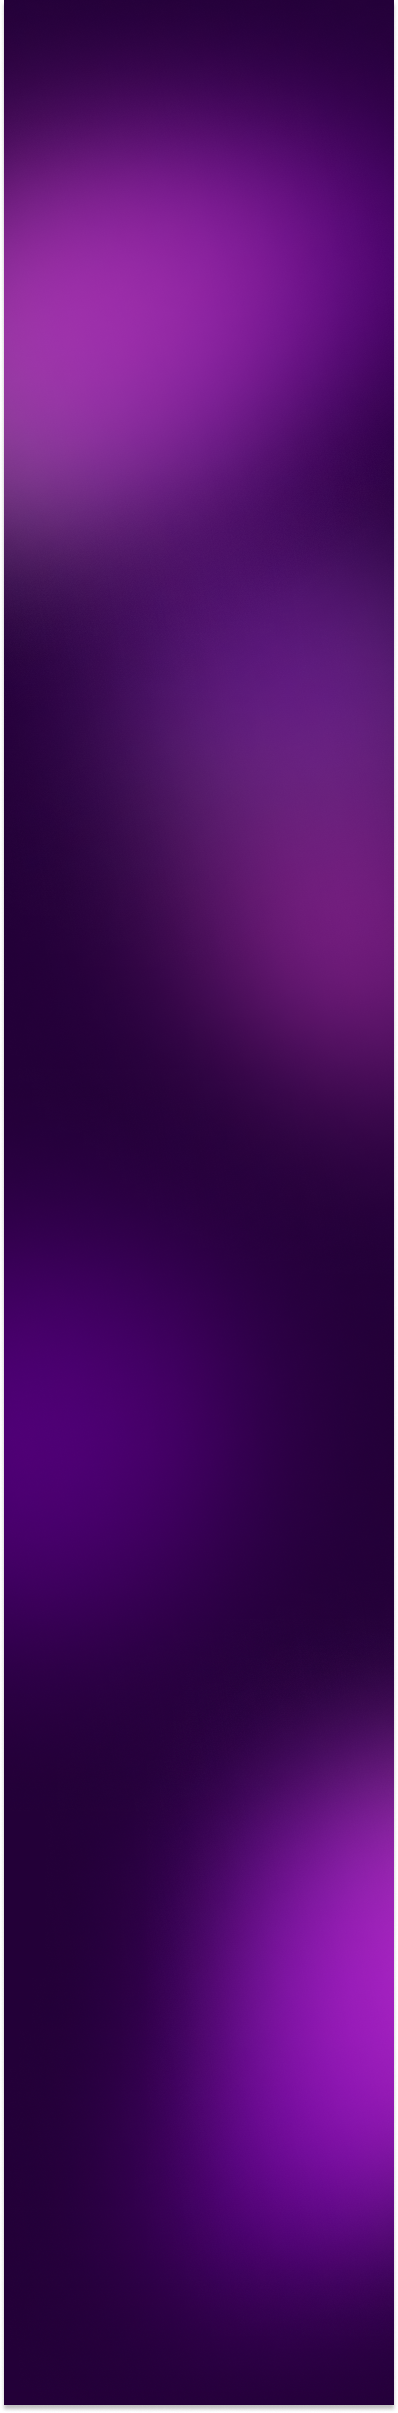
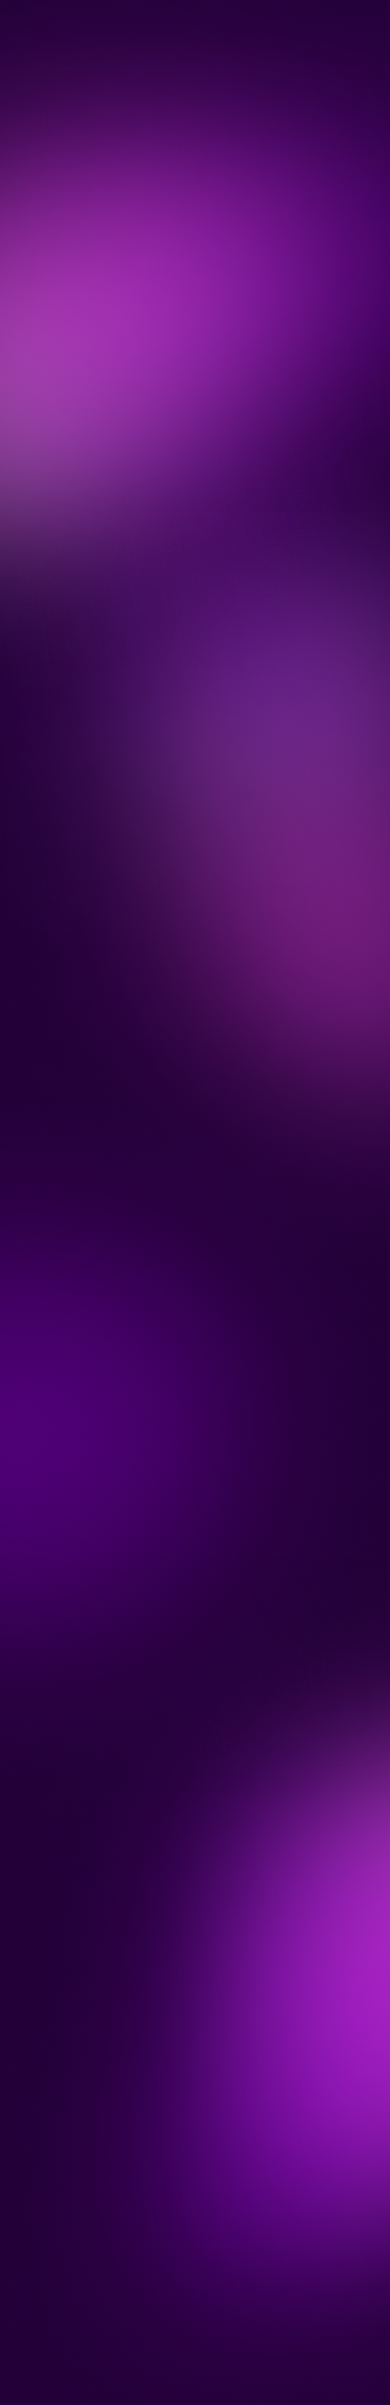
feature: add transition and fixed code in baseStyles

Changed region(s): [[0.0, 0.0, 1.0, 1.0]]

diff --git a/src/assets/styles/baseStyles.scss b/src/assets/styles/baseStyles.scss
@@ -13,39 +13,32 @@ html{
   scroll-behavior: smooth;
 }
 
-
 body{
   font-family: 'Helvetica', sans-serif;
   font-size: 1.6rem;
   margin: 0; 
+  background-size: cover;
+  background-repeat: repeat-y;
+  height: 100vh;
+  transition: background-image .5s ease;
 }
 
 @media (min-width: 768px) {
   .light-body {
     background-image: url('../images/background-light.png');
-    background-size: cover;
-    background-position: center;
-    background-repeat: repeat-y;
-    height: 100vh;
   }
 
   .dark-body {
     background-image: url('../images/background-dark.png');
-    background-size: cover;
-    background-position: center;
-    background-repeat: repeat-y;
-    height: 100vh;
   }
 }
 
 @media (max-width: 768px) {
   .light-body {
-    background-image: url('../images/background-light.png');
-    background-size: cover;
+    background-image: url('../images/background-light-mobile.png');
   }
 
   .dark-body {
-    background-image: url('../images/background-dark.png');
-    background-size: cover;
+    background-image: url('../images/background-dark-mobile.png');
   }
 }
